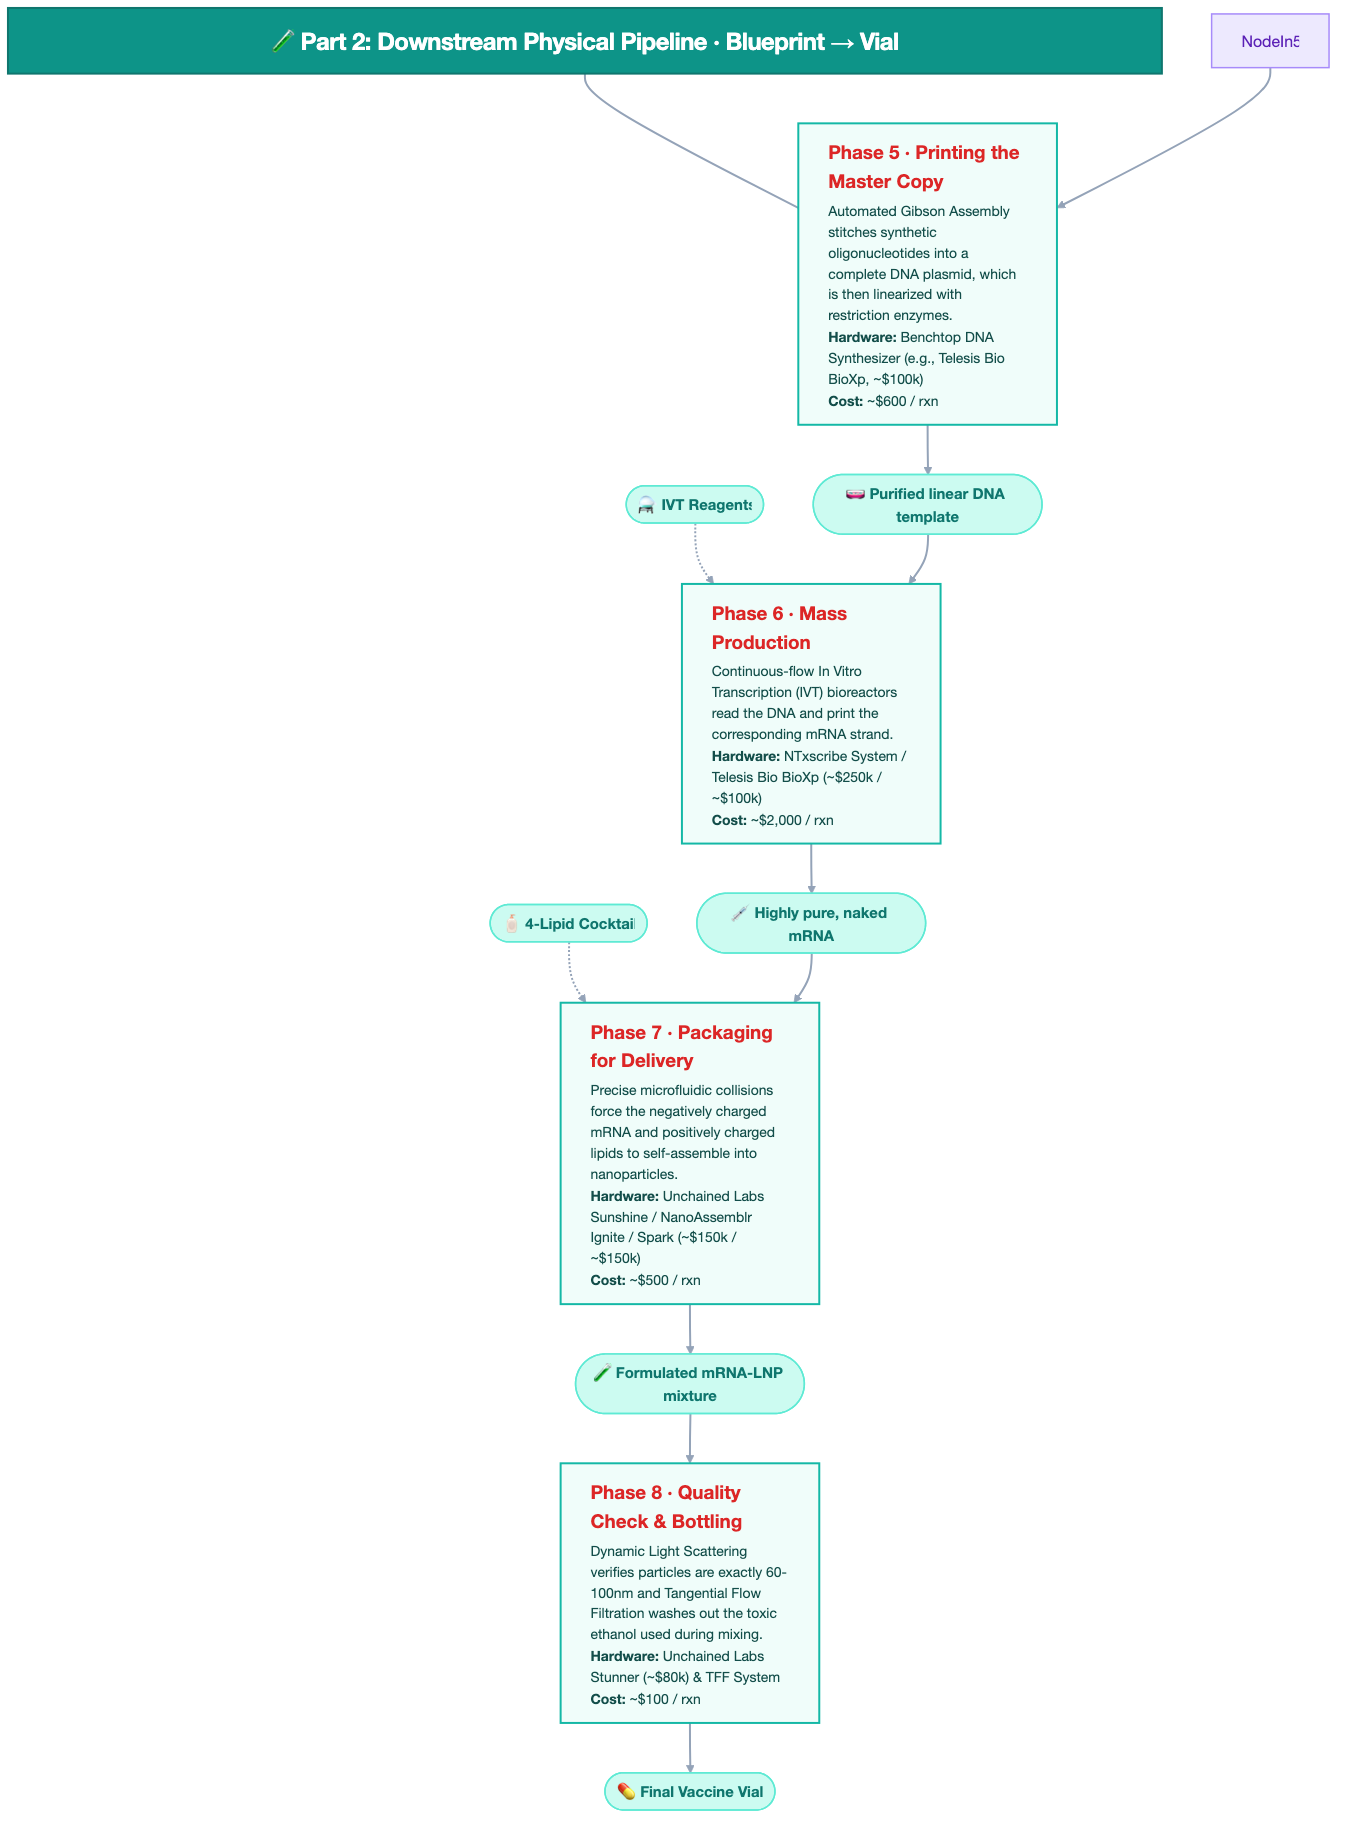
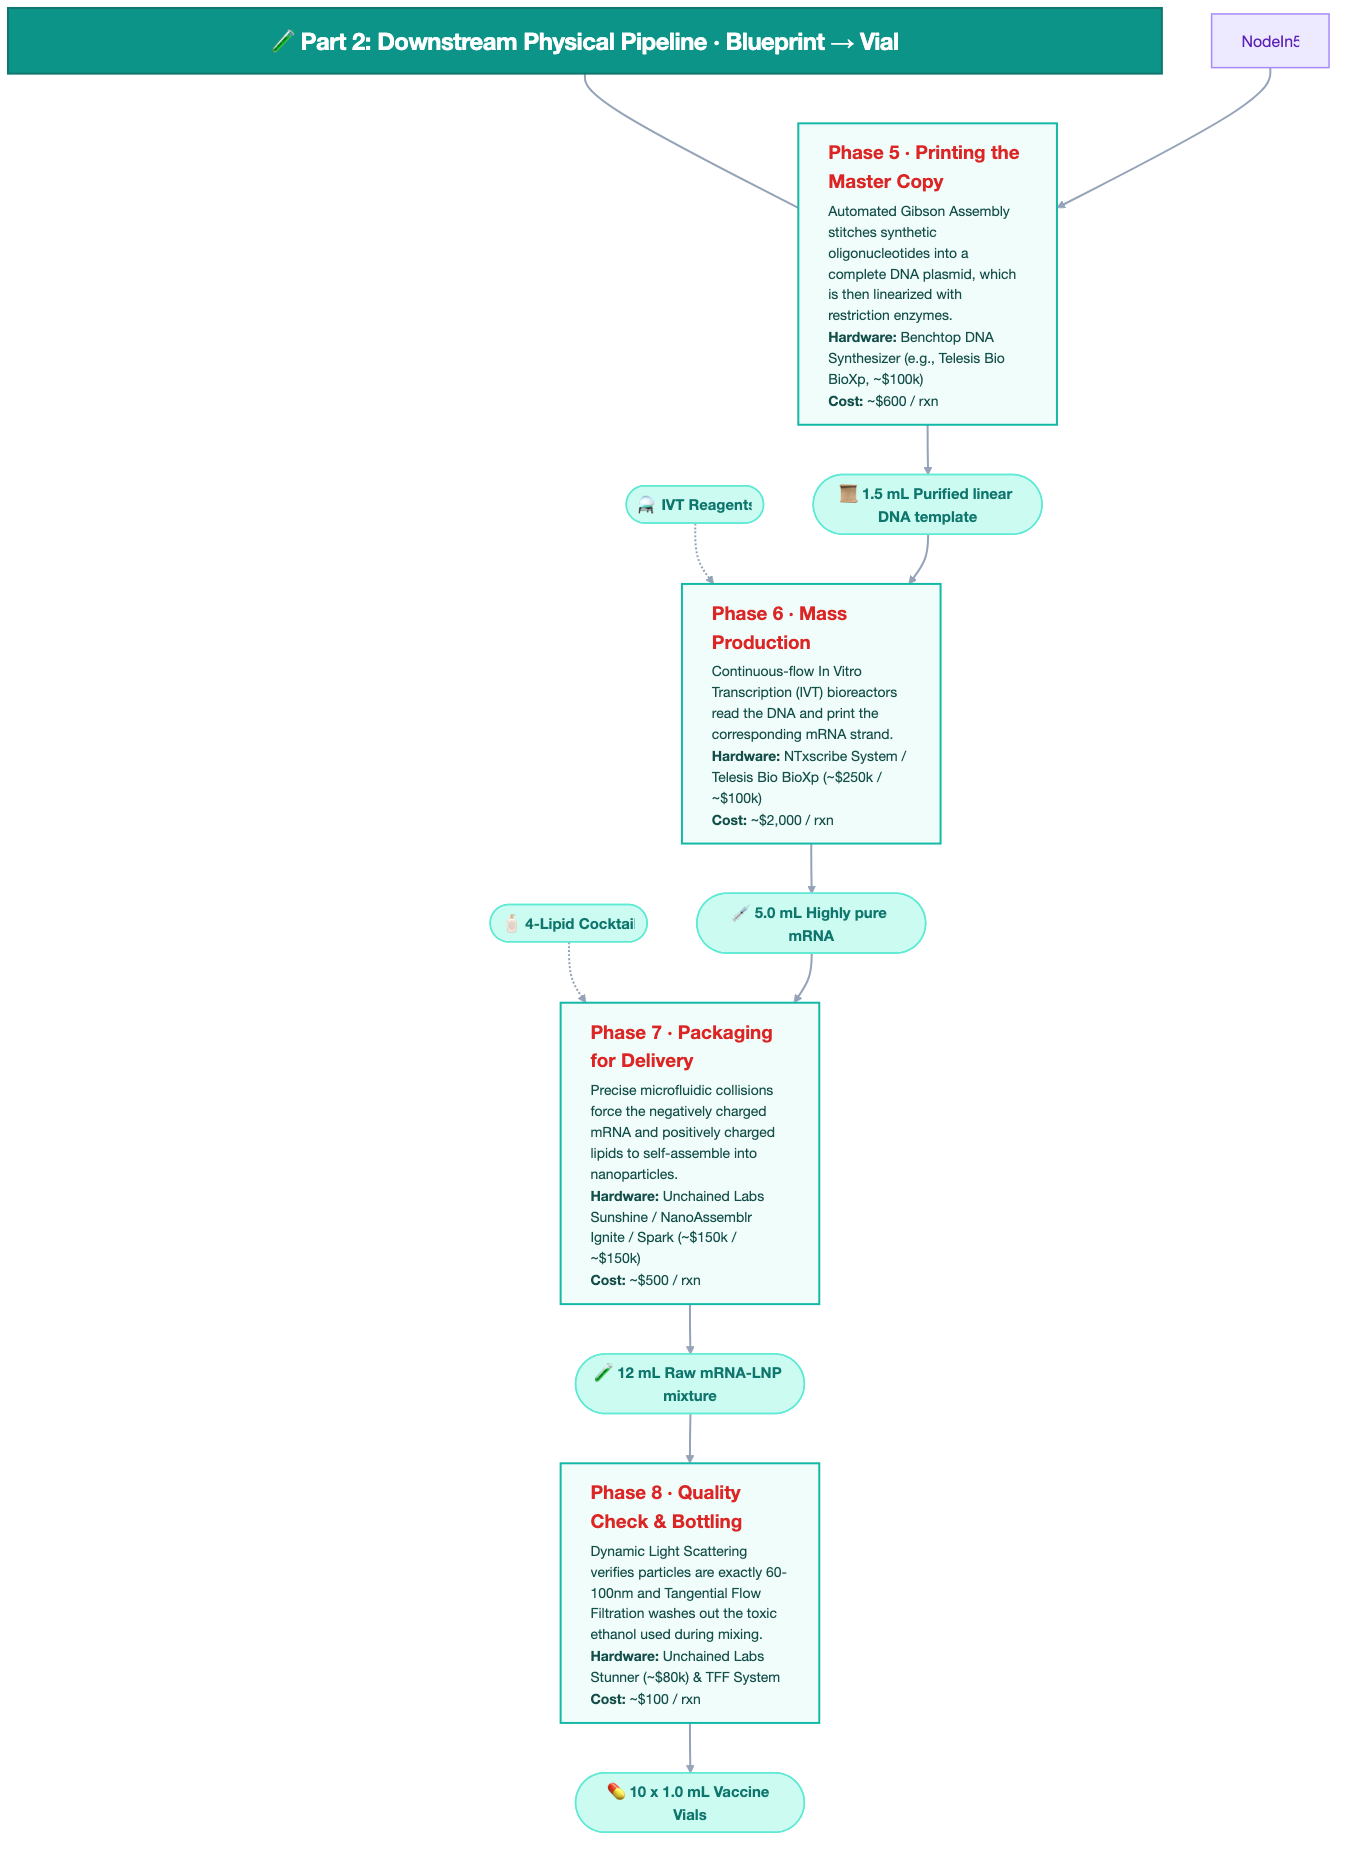
more descriptive outputs for phases 5-8

Changed region(s): [[0.3747, 0.0624, 0.7807, 0.9978]]

diff --git a/ARCHITECTURE.md b/ARCHITECTURE.md
@@ -45,7 +45,7 @@ flowchart TD
     NodeIn5 --> Phase5
     Phase5["<div style='font-size: 19px; font-weight: 700; color: #DC2626 !important; margin-bottom: 6px;'>Phase 5 · Printing the Master Copy</div><div style='font-size: 14px; color: #374151;'>Automated Gibson Assembly stitches synthetic oligonucleotides into a complete DNA plasmid, which is then linearized with restriction enzymes.<br><b>Hardware:</b> Benchtop DNA Synthesizer (e.g., Telesis Bio BioXp, ~$100k)<br><b>Cost:</b> ~$600 / rxn</div>"]
     Phase5 --> NodeIn6
-    NodeIn6(["<div style='font-size: 15px; font-weight: 600;'>🧫 Purified linear DNA template</div>"])
+    NodeIn6(["<div style='font-size: 15px; font-weight: 600;'>📜 1.5 mL Purified linear DNA template</div>"])
     
     %% Phase 6
     NodeIVT(["<div style='font-size: 15px; font-weight: 600;'>⚗ IVT Reagents</div>"])
@@ -53,7 +53,7 @@ flowchart TD
     NodeIn6 --> Phase6
     Phase6["<div style='font-size: 19px; font-weight: 700; color: #DC2626 !important; margin-bottom: 6px;'>Phase 6 · Mass Production</div><div style='font-size: 14px; color: #374151;'>Continuous-flow In Vitro Transcription (IVT) bioreactors read the DNA and print the corresponding mRNA strand.<br><b>Hardware:</b> NTxscribe System / Telesis Bio BioXp (~$250k / ~$100k)<br><b>Cost:</b> ~$2,000 / rxn</div>"]
     Phase6 --> NodeIn7
-    NodeIn7(["<div style='font-size: 15px; font-weight: 600;'>💉 Highly pure, naked mRNA</div>"])
+    NodeIn7(["<div style='font-size: 15px; font-weight: 600;'>💉 5.0 mL Highly pure mRNA</div>"])
     
     %% Phase 7
     NodeLipids(["<div style='font-size: 15px; font-weight: 600;'>🧴 4-Lipid Cocktail</div>"])
@@ -61,13 +61,13 @@ flowchart TD
     NodeIn7 --> Phase7
     Phase7["<div style='font-size: 19px; font-weight: 700; color: #DC2626 !important; margin-bottom: 6px;'>Phase 7 · Packaging for Delivery</div><div style='font-size: 14px; color: #374151;'>Precise microfluidic collisions force the negatively charged mRNA and positively charged lipids to self-assemble into nanoparticles.<br><b>Hardware:</b> Unchained Labs Sunshine / NanoAssemblr Ignite / Spark (~$150k / ~$150k)<br><b>Cost:</b> ~$500 / rxn</div>"]
     Phase7 --> NodeIn8
-    NodeIn8(["<div style='font-size: 15px; font-weight: 600;'>🧪 Formulated mRNA-LNP mixture</div>"])
+    NodeIn8(["<div style='font-size: 15px; font-weight: 600;'>🧪 12 mL Raw mRNA-LNP mixture</div>"])
     
     %% Phase 8
     NodeIn8 --> Phase8
     Phase8["<div style='font-size: 19px; font-weight: 700; color: #DC2626 !important; margin-bottom: 6px;'>Phase 8 · Quality Check & Bottling</div><div style='font-size: 14px; color: #374151;'>Dynamic Light Scattering verifies particles are exactly 60-100nm and Tangential Flow Filtration washes out the toxic ethanol used during mixing.<br><b>Hardware:</b> Unchained Labs Stunner (~$80k) & TFF System<br><b>Cost:</b> ~$100 / rxn</div>"]
     Phase8 --> NodeEnd
-    NodeEnd(["<div style='font-size: 15px; font-weight: 600;'>💊 Final Vaccine Vial</div>"])
+    NodeEnd(["<div style='font-size: 15px; font-weight: 600;'>💊 10 x 1.0 mL Vaccine Vials</div>"])
 
     classDef phaseViolet fill:#F5F3FF,stroke:#8B5CF6,stroke-width:2px,text-align:left,color:#4C1D95;
     classDef phaseTeal fill:#F0FDFA,stroke:#14B8A6,stroke-width:2px,text-align:left,color:#134E4A;

diff --git a/README.md b/README.md
@@ -107,7 +107,9 @@ GGCCGCUGCUUAUAAAAAAAAAAAAAAAAAAAAAAAAAAAAAAAAAAAAAAAAAAAAAAAAAAAAAAAAA
 * **Est. Cost:** ~$600 / rxn
 * **Inputs:** The `.fasta` file.
 * **Process:** Automated Gibson Assembly stitches synthetic oligonucleotides into a complete DNA plasmid, which is then linearized with restriction enzymes (e.g., BspQI).
-* **Outputs:** Physical, purified linear DNA template.
+* **Outputs:** ~1.5 mL of purified, linearized DNA template in a sterile 2.0 mL microcentrifuge tube.
+  * **Yield:** ~75 µg of total DNA (typically at ~50 ng/µL concentration).
+  * **Physical Form:** Clear, colorless liquid; stable at -20°C.
 * **Key Reagents:** Oligonucleotides, BspQI restriction enzymes, AMPure XP purification beads.
 
 ### Phase 6: Mass Production (Automated mRNA Synthesis)
@@ -116,7 +118,9 @@ GGCCGCUGCUUAUAAAAAAAAAAAAAAAAAAAAAAAAAAAAAAAAAAAAAAAAAAAAAAAAAAAAAAAAA
 * **Est. Cost:** ~$2,000 / rxn
 * **Inputs:** Linear DNA template + IVT Reagents.
 * **Process:** Continuous-flow In Vitro Transcription (IVT) bioreactors read the DNA and print the corresponding mRNA strand.
-* **Outputs:** Highly pure, naked mRNA.
+* **Outputs:** ~5.0 mL of highly pure, naked mRNA in a sterile 15 mL conical tube.
+  * **Yield:** ~1.0 mg of mRNA (typically at ~200 ng/µL concentration).
+  * **Physical Form:** Slightly viscous, clear liquid; stored at -80°C.
 * **Key Reagents:**
   * T7 RNA Polymerase (the "printer")
   * N1-methylpseudouridine (cloaking)
@@ -128,7 +132,9 @@ GGCCGCUGCUUAUAAAAAAAAAAAAAAAAAAAAAAAAAAAAAAAAAAAAAAAAAAAAAAAAAAAAAAAAA
 * **Est. Cost:** ~$500 / rxn
 * **Inputs:** Purified mRNA + 4-Lipid Cocktail.
 * **Process:** Precise microfluidic collisions force the negatively charged mRNA and positively charged lipids to self-assemble into nanoparticles.
-* **Outputs:** Formulated mRNA Lipid Nanoparticles (LNPs).
+* **Outputs:** ~10–12 mL of raw mRNA-LNP mixture in a sterile 50 mL centrifuge tube.
+  * **Yield:** ~0.9 mg of encapsulated mRNA (>90% encapsulation efficiency).
+  * **Physical Form:** Opalescent, slightly milky liquid (contains ~25% ethanol before filtration).
 * **Key Reagents:** Ionizable Lipid (e.g., ALC-0315), PEG-Lipid, DSPC (Helper Lipid), Cholesterol, Ethanol, Acidic Buffer.
 
 ### Phase 8: Quality Check & Bottling (QC & Finalization)
@@ -139,7 +145,9 @@ GGCCGCUGCUUAUAAAAAAAAAAAAAAAAAAAAAAAAAAAAAAAAAAAAAAAAAAAAAAAAAAAAAAAAA
 * **Process:**
   * **Stunner:** Dynamic Light Scattering (DLS) verifies particles are exactly 60–100nm.
   * **TFF:** Tangential Flow Filtration washes out the toxic ethanol used during mixing.
-* **Outputs:** Final, injectable, personalized cancer vaccine suspended in a cryoprotectant.
+* **Outputs:** 10 x 1.0 mL sterile, glass vials (approx. 10 doses).
+  * **Concentration:** ~100 µg/mL of encapsulated mRNA.
+  * **Physical Form:** Clear to slightly opalescent liquid; stored at -80°C in a cryoprotectant buffer.
 * **Key Reagents:** Tris-Sucrose Buffer (cryoprotectant), RiboGreen Assay (encapsulation verification).
 
 ---
